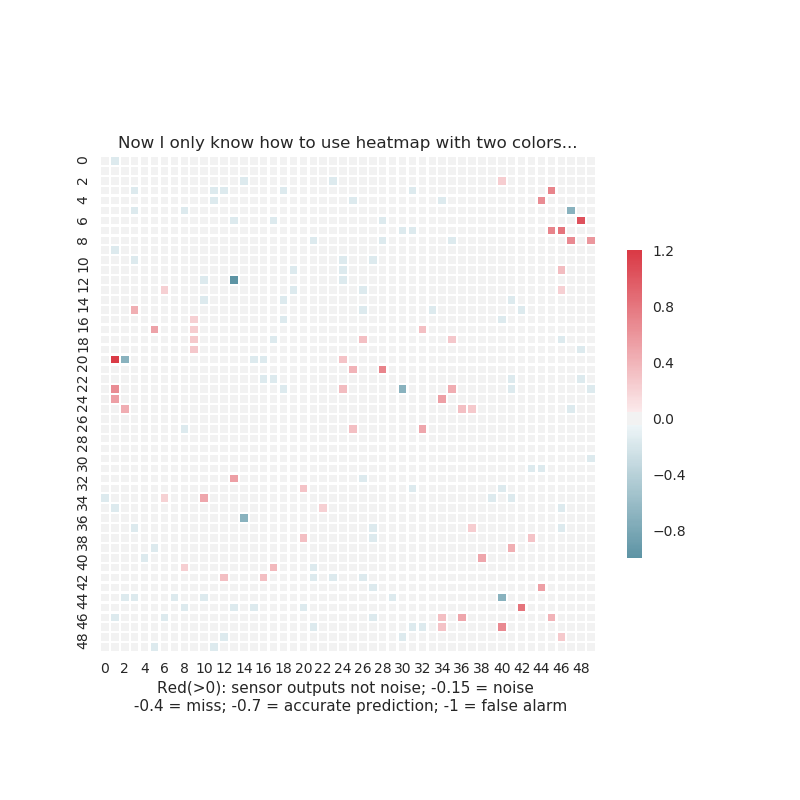
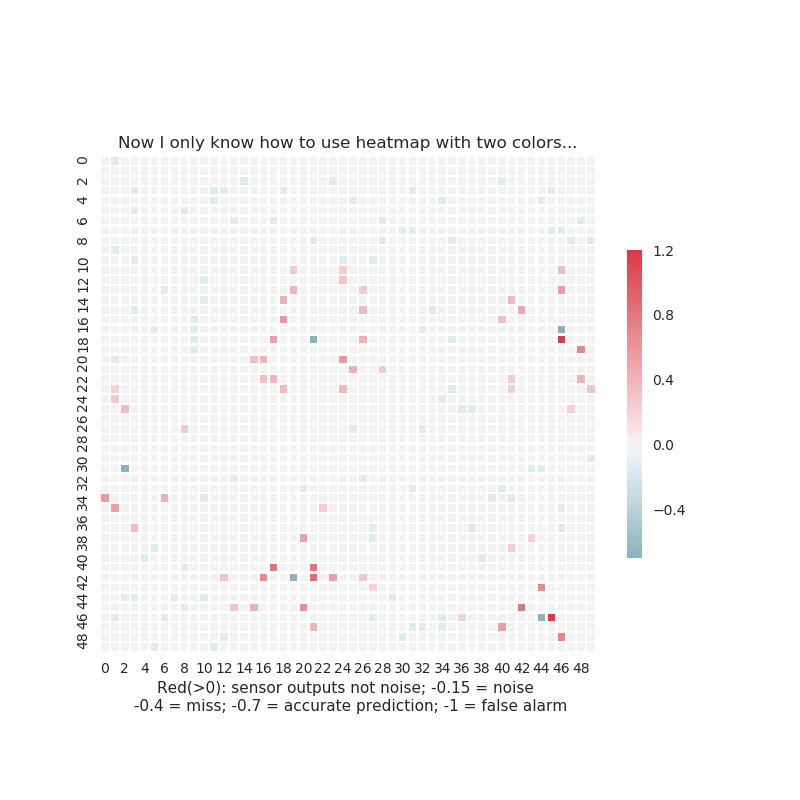
the ultimate visualization

diff --git a/select_sensor.py b/select_sensor.py
@@ -26,7 +26,7 @@ from itertools import combinations
 import line_profiler
 from sklearn.cluster import KMeans
 from scipy.optimize import nnls
-from plots import visualize_sensor_output, visualize_cluster, visualize_localization, visualize_gupta
+from plots import visualize_sensor_output, visualize_cluster, visualize_localization, visualize_gupta, visualize_q_prime, visualize_q
 from utility import generate_intruders
 from skimage.feature import peak_local_max
 import itertools
@@ -1537,7 +1537,7 @@ class SelectSensor:
         return self.grid_posterior
 
 
-    def get_posterior_new(self, radius, sensor_outputs, subset_index = None): #Fix bug on data
+    def get_posterior_new(self, radius, sensor_outputs, fig, subset_index = None): #Fix bug on data
         '''Test the accuracy of a subset of sensors when detecting the (single) true transmitter
         Args:
             radius (int): the transmission radius
@@ -1585,6 +1585,8 @@ class SelectSensor:
             H_0 = True
         else:
             H_0 = False
+
+        visualize_q(self.grid_len, self.grid_posterior, fig)
 
         grid_posterior_copy = np.copy(self.grid_posterior)
         for trans in self.transmitters:
@@ -1769,7 +1771,7 @@ class SelectSensor:
 
 
     #@profile
-    def get_posterior_localization(self, sensor_outputs):
+    def get_posterior_localization(self, sensor_outputs, fig):
         '''Our hypothesis-based localization algorithm
         '''
         init_size_2R = 9  # {10} for 40 x 40 grid,   transmitter range = 1.2 Km
@@ -1782,11 +1784,12 @@ class SelectSensor:
         size_2R = init_size_2R
         while size_2R >= 6:
             print('\nsize_2R', size_2R)
-            posterior, H_0 = self.get_posterior_new(size_2R, sensor_outputs)
+            posterior, H_0 = self.get_posterior_new(size_2R, sensor_outputs, fig)
             if H_0:
                 size_2R /= 2
                 continue
             posterior = np.reshape(posterior[:-1], (self.grid_len, self.grid_len))
+            visualize_q_prime(posterior, fig)
             indices = peak_local_max(posterior, 2, threshold_abs=0.7, exclude_border = False)  # change 2?
             sensor_subset = range(len(self.sensors))
             for index in indices:  # 2D index
@@ -2274,25 +2277,25 @@ def main5():
     selectsensor = SelectSensor('config/ipsn_50.json')
     selectsensor.init_data('data50/homogeneous-150/cov', 'data50/homogeneous-150/sensors', 'data50/homogeneous-150/hypothesis')
 
-    repeat = 1
+    repeat = 10
     errors = []
     misses = []
     false_alarms = []
     start = time.time()
 
     for i in range(0, repeat):
-        #true_indices = generate_intruders(grid_len=selectsensor.grid_len, edge=2, num=30, min_dist=5)
-        true_indices = [(20, 2), (36, 14), (23, 30), (44, 40), (5, 47)]
+        true_indices = generate_intruders(grid_len=selectsensor.grid_len, edge=2, num=5, min_dist=20)
+        #true_indices = [(20, 2), (36, 14), (23, 30), (44, 40), (5, 47)]
         #true_indices = [(35, 12), (27, 36), (47, 36), (5, 46), (14, 14)]
         #true_indices = [(6, 12), (46, 29), (40, 4), (26, 26), (12, 46)]
         #true_indices = [[29, 28], [33, 29], [31, 28], [31, 27], [30, 28], [30, 27], [32, 28]]
-        true_indices = [x * selectsensor.grid_len + y for (x, y) in true_indices]
+        #true_indices = [x * selectsensor.grid_len + y for (x, y) in true_indices]
 
         intruders, sensor_outputs = selectsensor.set_intruders(true_indices=true_indices, randomness=False)
         sensor_outputs_copy = copy.copy(sensor_outputs)
         visualize_sensor_output(selectsensor.grid_len, intruders, sensor_outputs, selectsensor.sensors, -80, i)
 
-        pred_locations = selectsensor.get_posterior_localization(sensor_outputs)
+        pred_locations = selectsensor.get_posterior_localization(sensor_outputs, i)
         #pred_locations = selectsensor.get_cluster_localization(intruders, sensor_outputs)
 
         true_positions = selectsensor.convert_to_pos(true_indices)

diff --git a/plots.py b/plots.py
@@ -75,18 +75,44 @@ def visualize_sensor_output(grid_len, intruders, sensor_outputs, sensors, thresh
         if sensor_outputs[index] > threshold:
             color = (sensor_outputs[index] - minimum) / (maximum - minimum) + 0.2
         else:
-            color = -0.4
+            color = -0.2
         grid[sensor.x][sensor.y] = color
         #print((sensor[0], sensor[1]), sensor_output[index], '--', color)
     for intr in intruders:
-        grid[intr.x][intr.y] = -1
+        grid[intr.x][intr.y] = -1.2
 
     sns.set(style="white")
     f, ax = plt.subplots(figsize=(8, 8))
     cmap = sns.diverging_palette(220, 10, as_cmap=True)
     sns.heatmap(grid, cmap=cmap, center=0, square=True, linewidth=1, cbar_kws={"shrink": .5})
+    plt.xlabel('red (>0) = sensor outputs; -1.2 = intruders (dark blue); -0.2 = is noise (light blue) ')
     #plt.show()
     plt.savefig('visualize/localization/{}-sensor-output'.format(fig))
+
+
+def visualize_q(grid_len, posterior, fig):
+    '''Args: grid_len (int) posterior (np.array), 1D array
+    '''
+    grid = np.zeros((grid_len, grid_len))
+    for x in range(grid_len):
+        for y in range(grid_len):
+            grid[x][y] = np.log10(posterior[x*grid_len +y])
+    grid[grid == -np.inf] = -330
+    plt.subplots(figsize=(8, 8))
+    sns.heatmap(grid, vmin=np.min(grid), vmax=np.max(grid), square=True, linewidth=0.5)
+    plt.title('Q: ploting the exponent of Q, \n min exponent = -infinity (modify to -330 for plotting), max = {}'.format(round(np.max(grid), 3)))
+    plt.savefig('visualize/localization/{}-q'.format(fig))
+
+
+def visualize_q_prime(posterior, fig):
+    '''
+    '''
+    plt.subplots(figsize=(8, 8))
+    cmap = sns.diverging_palette(220, 10, as_cmap=True)
+    sns.heatmap(posterior, vmin=0, vmax=1, cmap=cmap, center=0, square=True, linewidth=0.5)
+    plt.title('Q prime')
+    plt.savefig('visualize/localization/{}-q-prime'.format(fig))
+
 
 
 def visualize_cluster(grid_len, intruders, sensor_to_cluster, labels):
@@ -133,6 +159,7 @@ def visualize_localization(grid_len, true_locations, pred_locations, fig):
     f, ax = plt.subplots(figsize=(8, 8))
     cmap = sns.diverging_palette(220, 10, as_cmap=True)
     sns.heatmap(grid, cmap=cmap, center=0, square=True, linewidth=1, cbar_kws={"shrink": .5})
+    plt.xlabel('1 = false alarm; 0.4 = accurate prediction; -1 = miss')
     #plt.show()
     plt.savefig('visualize/localization/{}-localization'.format(fig))
 
